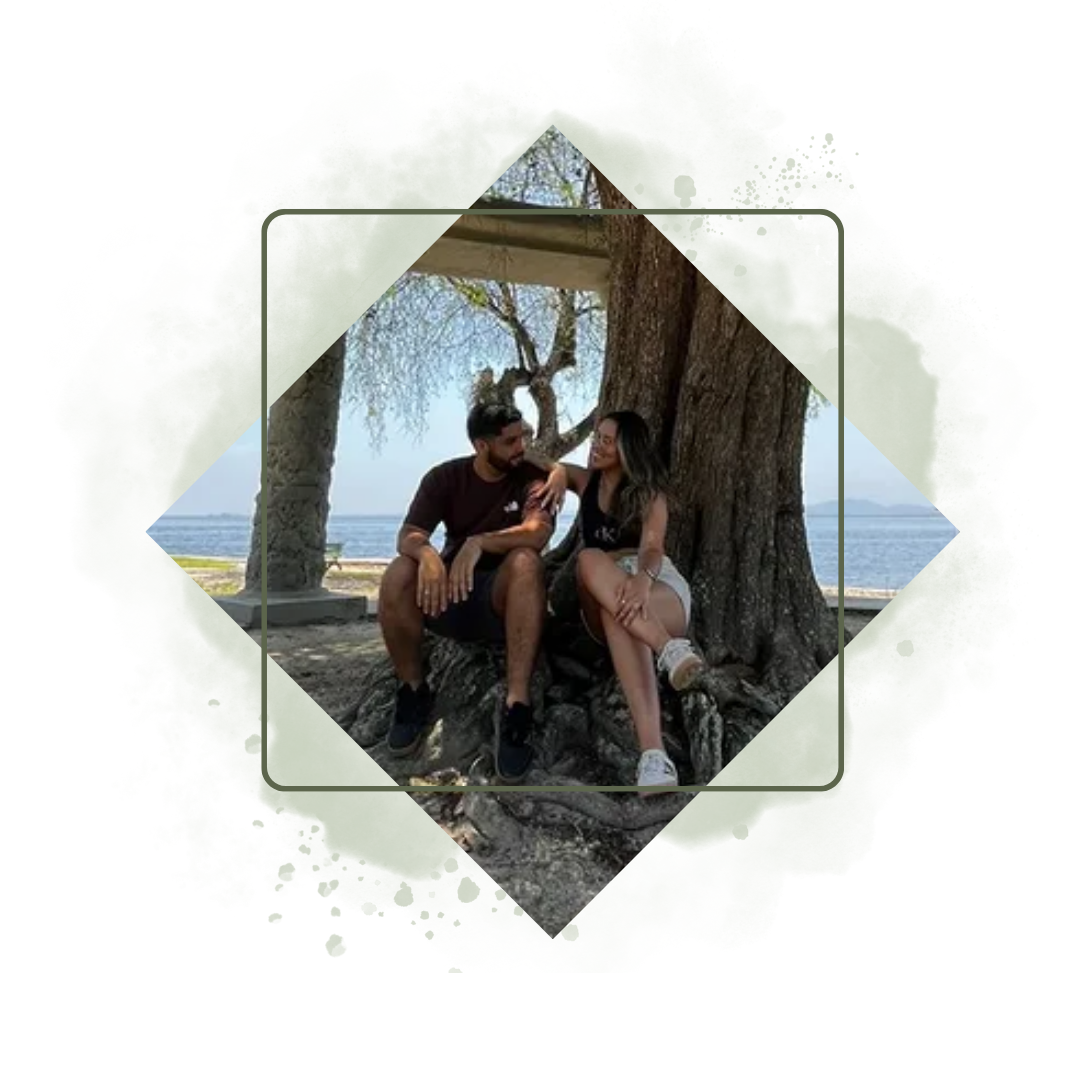
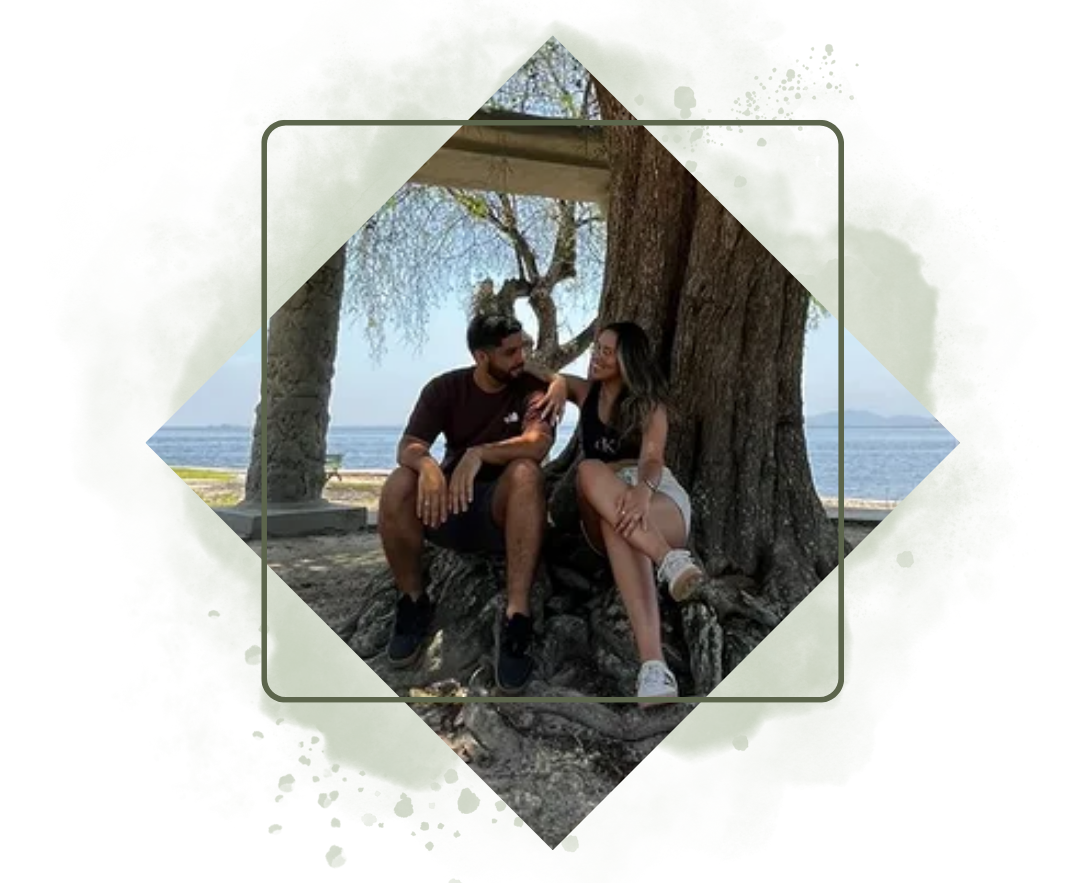
tentado redimensionar

Changed region(s): [[0.1222, 0.0306, 0.8861, 0.9785], [0.7944, 0.3975, 0.825, 0.4281], [0.3056, 0.9479, 0.3361, 0.9785]]

diff --git a/src/App.jsx b/src/App.jsx
@@ -12,8 +12,8 @@ function App() {
 
       <img src="/foto.png" alt="" />
 
-      <img className="absolute top-0 right-[-250px] opacity-50" src="/ramo1.png" alt="" />
-      <img className="absolute top-100 left-[-250px] opacity-50" src="/ramo2.png" alt="" />
+      <img className="absolute top-0 right-[-190px] opacity-50" src="/ramo1.png" alt="" />
+      <img className="absolute top-100 left-[-190px] opacity-50" src="/ramo2.png" alt="" />
 
       <div className="flex flex-col items-center h-full w-full">
         <h1 className="font-great-vibes text-3xl mt-5 text-[var(--color-green3)]">
